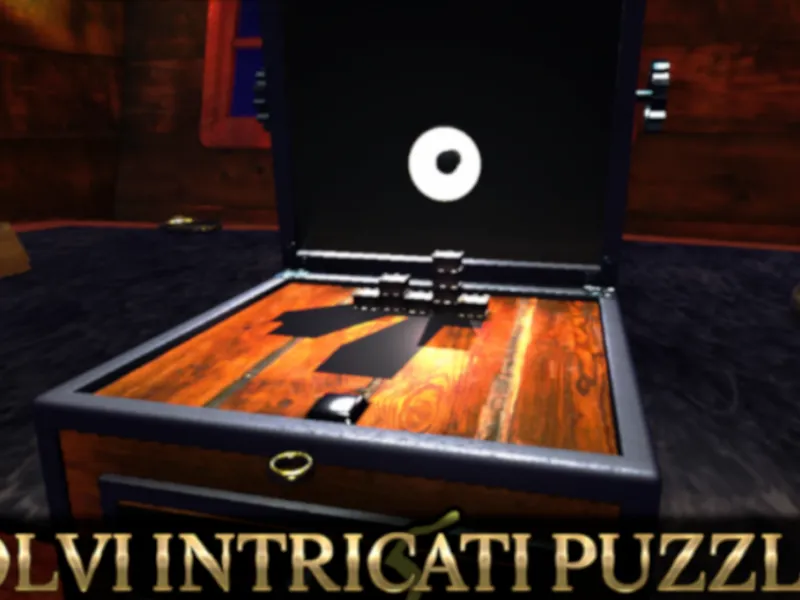
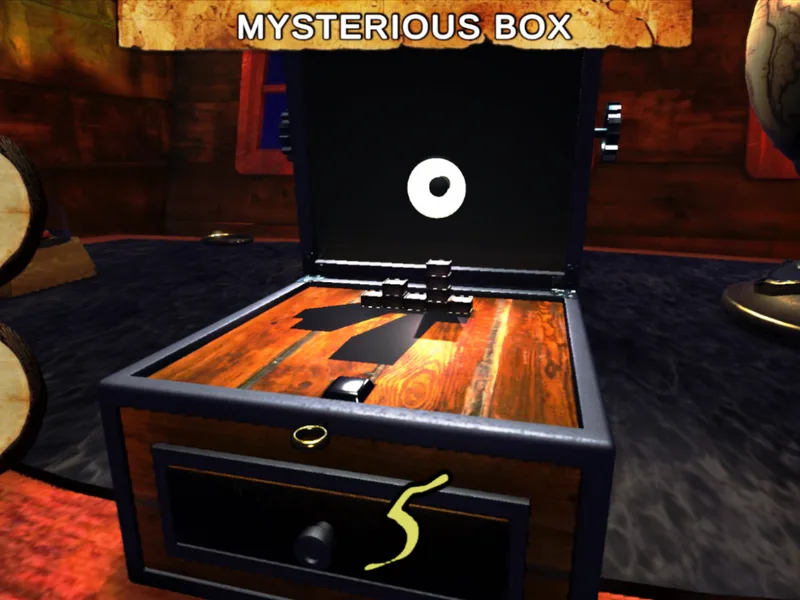
fix: Apple Store links, remove scroll text, neutral story image, hide coming soon episodes

diff --git a/index.html b/index.html
@@ -55,8 +55,11 @@
             <svg viewBox="0 0 24 24" fill="currentColor"><path d="M3,20.5V3.5C3,2.91 3.34,2.39 3.84,2.15L13.69,12L3.84,21.85C3.34,21.61 3,21.09 3,20.5M16.81,15.12L6.05,21.34L14.54,12.85L16.81,15.12M20.16,10.81C20.5,11.08 20.75,11.5 20.75,12C20.75,12.5 20.53,12.9 20.18,13.18L17.89,14.5L15.39,12L17.89,9.5L20.16,10.81M6.05,2.66L16.81,8.88L14.54,11.15L6.05,2.66Z"/></svg>
             <span data-i18n="hero.cta">Get it on Google Play</span>
           </a>
+          <a class="btn-play btn-apple" href="https://apps.apple.com/it/app/hooks-legacy-ep-1/id6753951734" target="_blank" rel="noopener">
+            <svg viewBox="0 0 24 24" fill="currentColor"><path d="M18.71 19.5c-.83 1.24-1.71 2.45-3.05 2.47-1.34.03-1.77-.79-3.29-.79-1.53 0-2 .77-3.27.82-1.31.05-2.3-1.32-3.14-2.53C4.25 17 2.94 12.45 4.7 9.39c.87-1.52 2.43-2.48 4.12-2.51 1.28-.02 2.5.87 3.29.87.78 0 2.26-1.07 3.8-.91.65.03 2.47.26 3.64 1.98-.09.06-2.17 1.28-2.15 3.81.03 3.02 2.65 4.03 2.68 4.04-.03.07-.42 1.44-1.38 2.83M13 3.5c.73-.83 1.94-1.46 2.94-1.5.13 1.17-.34 2.35-1.04 3.19-.69.85-1.83 1.51-2.95 1.42-.15-1.15.41-2.35 1.05-3.11z"/></svg>
+            <span data-i18n="hero.cta-apple">Download on the App Store</span>
+          </a>
         </div>
-        <p class="hero-scroll" data-i18n="hero.scroll">Scroll to explore<span class="hero-scroll-line"></span></p>
       </div>
     </section>
 
@@ -152,24 +155,15 @@
           <p class="section-desc" data-i18n="episodes.desc">Hook's Legacy is a 10-part adventure. Episode 1 is available now.</p>
         </div>
         <div class="episodes-grid reveal">
-          <a class="episode-card episode-current" href="https://play.google.com/store/apps/details?id=com.HooksLegacyDev.HooksLegacyEp1" target="_blank" rel="noopener">
+          <div class="episode-card episode-current">
             <img class="episode-thumb" src="assets/img/episode-1.webp" alt="Episode 1">
             <div class="episode-num">I</div>
             <div class="episode-title" data-i18n="episodes.e1.title">The Captain's Cabin</div>
             <div class="episode-stores">
-              <span class="store-badge store-google" data-i18n="episodes.google">Google Play</span>
-              <span class="store-badge store-apple" data-i18n="episodes.apple">App Store</span>
+              <a class="store-badge store-google" href="https://play.google.com/store/apps/details?id=com.HooksLegacyDev.HooksLegacyEp1" target="_blank" rel="noopener">Google Play</a>
+              <a class="store-badge store-apple" href="https://apps.apple.com/it/app/hooks-legacy-ep-1/id6753951734" target="_blank" rel="noopener">App Store</a>
             </div>
-          </a>
-          <div class="episode-card episode-locked"><div class="episode-num">II</div><div class="episode-title">TBA</div><div class="episode-status" data-i18n="episodes.coming">Coming Soon</div></div>
-          <div class="episode-card episode-locked"><div class="episode-num">III</div><div class="episode-title">TBA</div><div class="episode-status" data-i18n="episodes.coming">Coming Soon</div></div>
-          <div class="episode-card episode-locked"><div class="episode-num">IV</div><div class="episode-title">TBA</div><div class="episode-status" data-i18n="episodes.coming">Coming Soon</div></div>
-          <div class="episode-card episode-locked"><div class="episode-num">V</div><div class="episode-title">TBA</div><div class="episode-status" data-i18n="episodes.coming">Coming Soon</div></div>
-          <div class="episode-card episode-locked"><div class="episode-num">VI</div><div class="episode-title">TBA</div><div class="episode-status" data-i18n="episodes.coming">Coming Soon</div></div>
-          <div class="episode-card episode-locked"><div class="episode-num">VII</div><div class="episode-title">TBA</div><div class="episode-status" data-i18n="episodes.coming">Coming Soon</div></div>
-          <div class="episode-card episode-locked"><div class="episode-num">VIII</div><div class="episode-title">TBA</div><div class="episode-status" data-i18n="episodes.coming">Coming Soon</div></div>
-          <div class="episode-card episode-locked"><div class="episode-num">IX</div><div class="episode-title">TBA</div><div class="episode-status" data-i18n="episodes.coming">Coming Soon</div></div>
-          <div class="episode-card episode-locked"><div class="episode-num">X</div><div class="episode-title">TBA</div><div class="episode-status" data-i18n="episodes.coming">Coming Soon</div></div>
+          </div>
         </div>
         <div class="episodes-progress reveal">
           <div class="progress-bar"><div class="progress-fill"></div></div>
@@ -185,10 +179,16 @@
           <h2 class="download-title" data-i18n="download.title">Begin Your Adventure</h2>
           <p class="download-subtitle" data-i18n="download.desc">Download Hook's Legacy Episode 1 and step into the captain's doomed cabin.</p>
         </div>
-        <a class="download-badge reveal" href="https://play.google.com/store/apps/details?id=com.HooksLegacyDev.HooksLegacyEp1" target="_blank" rel="noopener">
-          <svg viewBox="0 0 24 24" fill="currentColor"><path d="M3,20.5V3.5C3,2.91 3.34,2.39 3.84,2.15L13.69,12L3.84,21.85C3.34,21.61 3,21.09 3,20.5M16.81,15.12L6.05,21.34L14.54,12.85L16.81,15.12M20.16,10.81C20.5,11.08 20.75,11.5 20.75,12C20.75,12.5 20.53,12.9 20.18,13.18L17.89,14.5L15.39,12L17.89,9.5L20.16,10.81M6.05,2.66L16.81,8.88L14.54,11.15L6.05,2.66Z"/></svg>
-          <span data-i18n="download.cta">Get it on Google Play</span>
-        </a>
+        <div class="download-stores reveal">
+          <a class="download-badge" href="https://play.google.com/store/apps/details?id=com.HooksLegacyDev.HooksLegacyEp1" target="_blank" rel="noopener">
+            <svg viewBox="0 0 24 24" fill="currentColor"><path d="M3,20.5V3.5C3,2.91 3.34,2.39 3.84,2.15L13.69,12L3.84,21.85C3.34,21.61 3,21.09 3,20.5M16.81,15.12L6.05,21.34L14.54,12.85L16.81,15.12M20.16,10.81C20.5,11.08 20.75,11.5 20.75,12C20.75,12.5 20.53,12.9 20.18,13.18L17.89,14.5L15.39,12L17.89,9.5L20.16,10.81M6.05,2.66L16.81,8.88L14.54,11.15L6.05,2.66Z"/></svg>
+            <span data-i18n="download.cta">Get it on Google Play</span>
+          </a>
+          <a class="download-badge download-badge-apple" href="https://apps.apple.com/it/app/hooks-legacy-ep-1/id6753951734" target="_blank" rel="noopener">
+            <svg viewBox="0 0 24 24" fill="currentColor"><path d="M18.71 19.5c-.83 1.24-1.71 2.45-3.05 2.47-1.34.03-1.77-.79-3.29-.79-1.53 0-2 .77-3.27.82-1.31.05-2.3-1.32-3.14-2.53C4.25 17 2.94 12.45 4.7 9.39c.87-1.52 2.43-2.48 4.12-2.51 1.28-.02 2.5.87 3.29.87.78 0 2.26-1.07 3.8-.91.65.03 2.47.26 3.64 1.98-.09.06-2.17 1.28-2.15 3.81.03 3.02 2.65 4.03 2.68 4.04-.03.07-.42 1.44-1.38 2.83M13 3.5c.73-.83 1.94-1.46 2.94-1.5.13 1.17-.34 2.35-1.04 3.19-.69.85-1.83 1.51-2.95 1.42-.15-1.15.41-2.35 1.05-3.11z"/></svg>
+            <span data-i18n="download.cta-apple">Download on the App Store</span>
+          </a>
+        </div>
         <p class="download-meta reveal" data-i18n="download.meta">Free to play · Android 7.0+ · No ads required to progress</p>
       </div>
     </section>
@@ -263,6 +263,7 @@
             <li><a href="#screenshots" data-i18n="nav.screenshots">Screenshots</a></li>
             <li><a href="#episodes" data-i18n="nav.episodes">Episodes</a></li>
             <li><a href="https://play.google.com/store/apps/details?id=com.HooksLegacyDev.HooksLegacyEp1" target="_blank" rel="noopener">Google Play</a></li>
+            <li><a href="https://apps.apple.com/it/app/hooks-legacy-ep-1/id6753951734" target="_blank" rel="noopener">App Store</a></li>
           </ul>
         </div>
         <div class="footer-links">

diff --git a/assets/css/style.css b/assets/css/style.css
@@ -338,31 +338,13 @@ a:hover {
   height: 24px;
 }
 
-.hero-scroll {
-  position: absolute;
-  bottom: 40px;
-  left: 50%;
-  transform: translateX(-50%);
-  display: flex;
-  flex-direction: column;
-  align-items: center;
-  gap: 8px;
-  color: var(--text-muted);
-  font-size: 0.75rem;
-  letter-spacing: 0.15em;
-  text-transform: uppercase;
-  animation: bounce 2s infinite;
+.btn-apple {
+  background: #333;
+  box-shadow: 0 8px 30px rgba(0,0,0,0.3);
 }
 
-.hero-scroll-line {
-  width: 1px;
-  height: 40px;
-  background: linear-gradient(to bottom, var(--gold-dim), transparent);
-}
-
-@keyframes bounce {
-  0%, 100% { transform: translateX(-50%) translateY(0); }
-  50% { transform: translateX(-50%) translateY(8px); }
+.btn-apple:hover {
+  box-shadow: 0 12px 40px rgba(0,0,0,0.4);
 }
 
 /* ═══════════════ SECTIONS ═══════════════ */
@@ -677,13 +659,21 @@ a:hover {
 }
 
 .store-badge {
-  display: inline-block;
+  display: inline-flex;
+  align-items: center;
   padding: 5px 12px;
   border-radius: var(--radius-pill);
   font-size: 0.65rem;
   font-weight: 700;
   letter-spacing: 0.05em;
   text-transform: uppercase;
+  text-decoration: none;
+  transition: all 0.2s;
+}
+
+.store-badge:hover {
+  transform: translateY(-2px);
+  text-decoration: none;
 }
 
 .store-google {
@@ -691,8 +681,18 @@ a:hover {
   color: #fff;
 }
 
+.store-google:hover {
+  background: #2d8f47;
+  color: #fff;
+}
+
 .store-apple {
   background: #555;
+  color: #fff;
+}
+
+.store-apple:hover {
+  background: #444;
   color: #fff;
 }
 
@@ -817,6 +817,22 @@ a:hover {
 .download-badge svg {
   width: 28px;
   height: 28px;
+}
+
+.download-badge-apple {
+  background: #333;
+  box-shadow: 0 8px 30px rgba(0,0,0,0.3);
+}
+
+.download-badge-apple:hover {
+  box-shadow: 0 12px 40px rgba(0,0,0,0.4);
+}
+
+.download-stores {
+  display: flex;
+  gap: 16px;
+  justify-content: center;
+  flex-wrap: wrap;
 }
 
 .download-meta {

diff --git a/assets/js/i18n.js b/assets/js/i18n.js
@@ -12,7 +12,7 @@
       'hero.subtitle': "The Captain's Cabin Awaits",
       'hero.tagline': 'Step into a 1700s pirate ship cabin. Open the mysterious box, uncover hidden clues, and solve intricate puzzles before the Kraken awakens.',
       'hero.cta': 'Get it on Google Play',
-      'hero.scroll': 'Scroll to explore',
+      'hero.cta-apple': 'Download on the App Store',
       'gallery.eyebrow': 'Gallery',
       'gallery.title': 'Inside the Cabin',
       'gallery.desc': 'Explore the mysterious world of Hook\'s Legacy.',
@@ -75,7 +75,7 @@
       'hero.subtitle': "La Cabina del Capitano Ti Aspetta",
       'hero.tagline': 'Entra nella cabina di una nave pirata del 1700. Apri la scatola misteriosa, scopri indizi nascosti e risolvi enigmi complessi prima che il Kraken si svegli.',
       'hero.cta': 'Scarica su Google Play',
-      'hero.scroll': 'Scorri per esplorare',
+      'hero.cta-apple': 'Scarica sull\'App Store',
       'gallery.eyebrow': 'Galleria',
       'gallery.title': 'Dentro la Cabina',
       'gallery.desc': 'Esplora il mondo misterioso di Hook\'s Legacy.',
